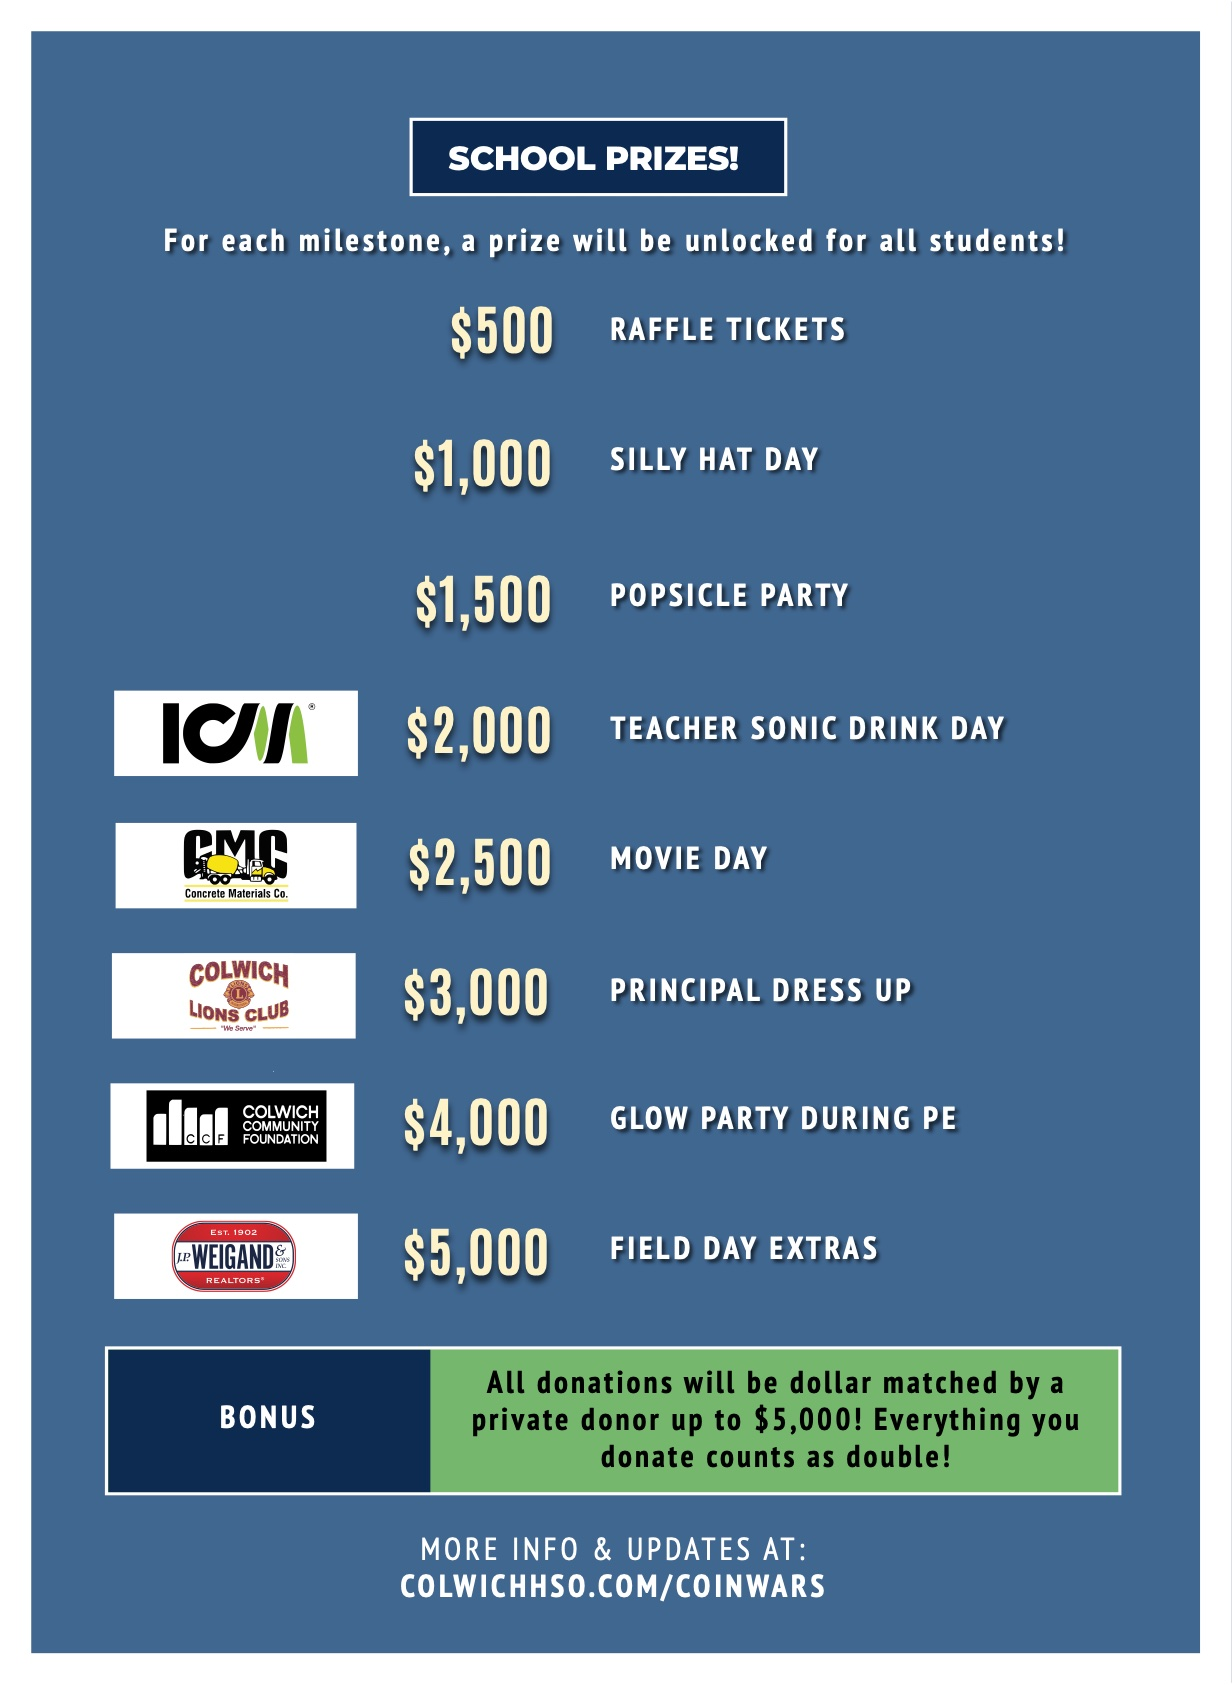
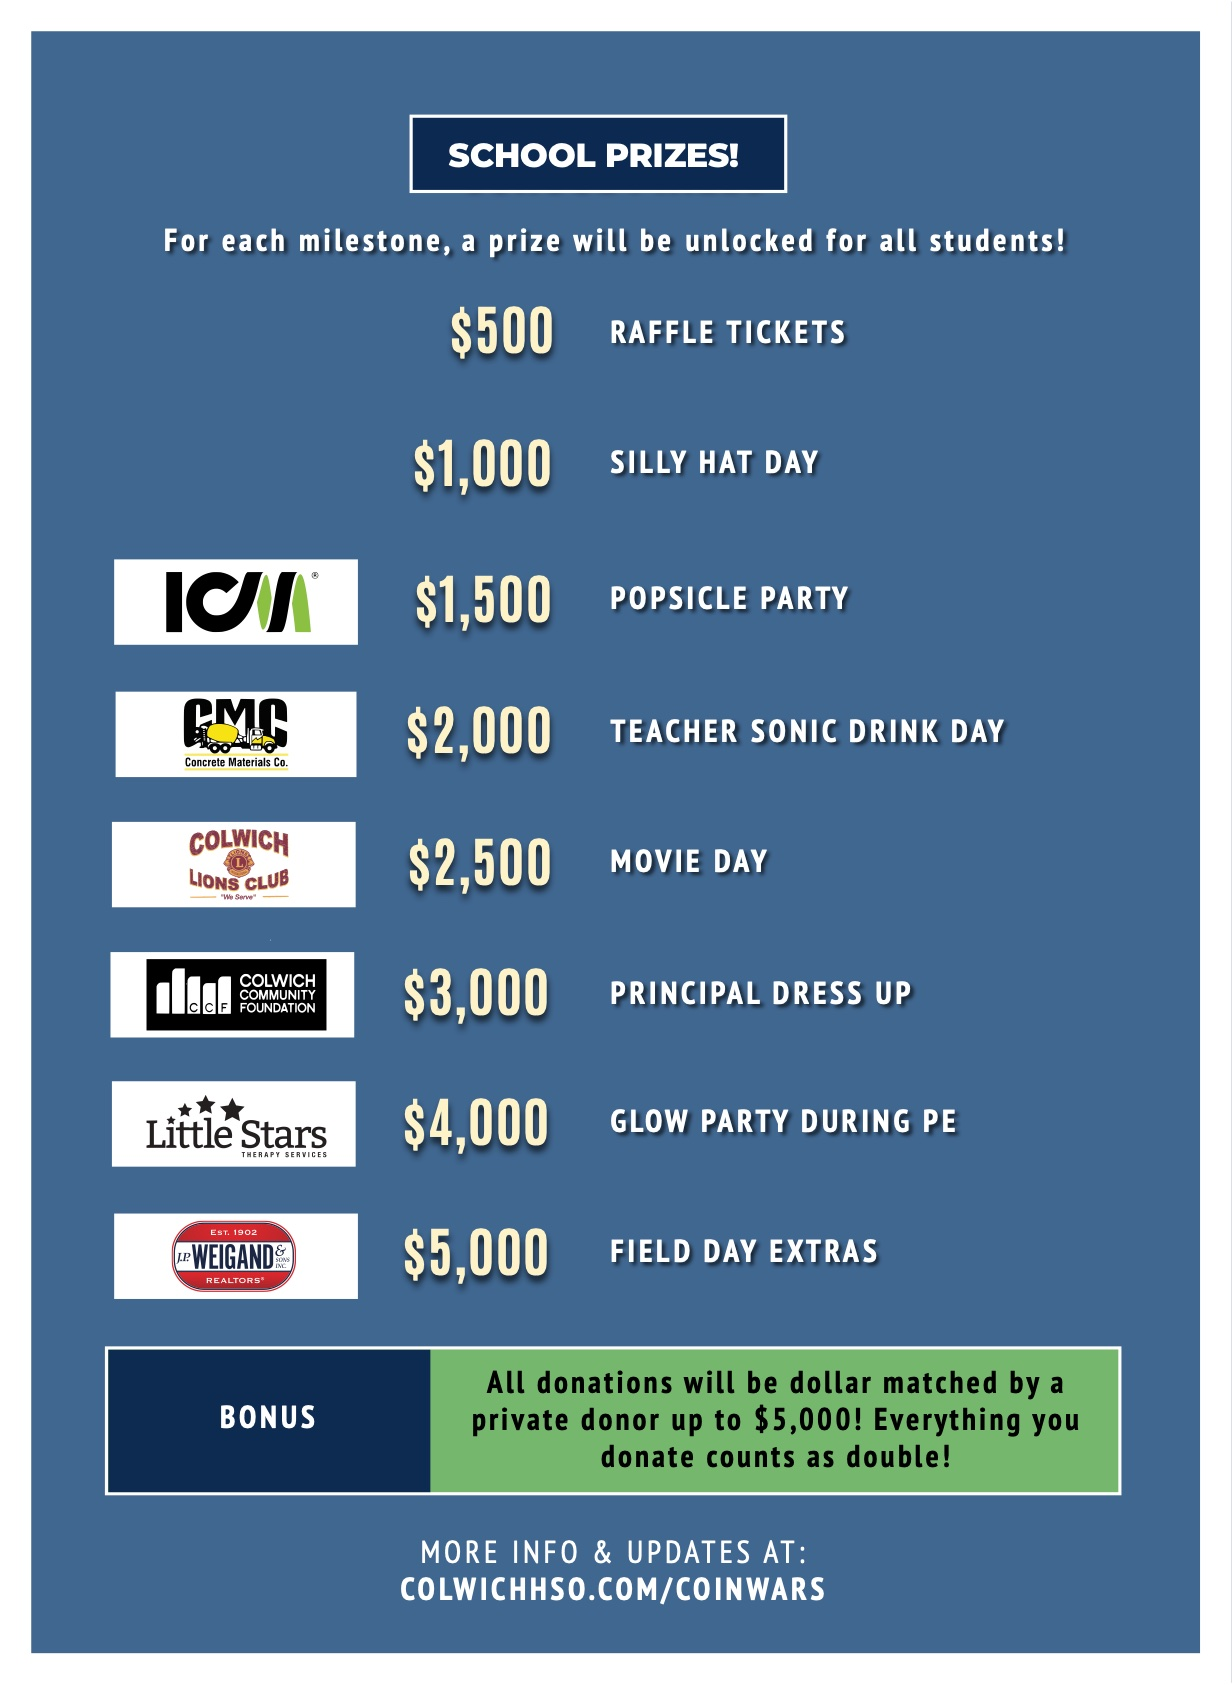
update sponsors

diff --git a/content/sponsors/littlestars.md b/content/sponsors/littlestars.md
@@ -5,7 +5,7 @@ sponsor_id: littlestars
 website: "https://www.littlestarstherapyks.com"
 subtitle: "Serving Children with Autism in the Wichita Area."
 logo: "littlestars.svg"
-active: false
+active: true
 tier: 4
 ---
 Module content text assuming that there is a sub page.
